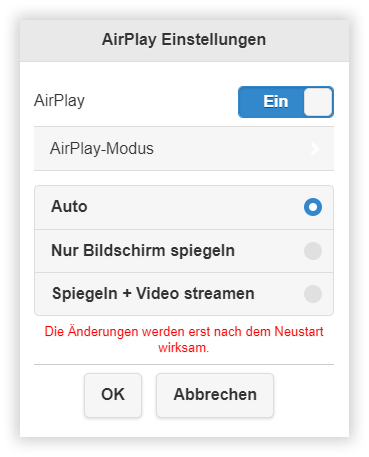
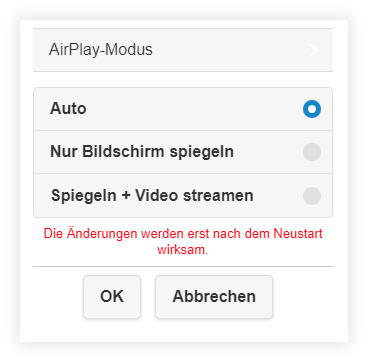
xx

diff --git a/docs/pro-stick-d10/reset.md b/docs/pro-stick-d10/reset.md
@@ -67,14 +67,16 @@ Wenn Ihnen die Zugangsdaten für die [Erweiterte Einstellungen](adv.settings.md)
 
 Nach dem Zurücksetzen werden Sie bei der ersten Anmeldung auf der Funktion [Erweiterte Einstellungen](adv.settings.md) aufgefordert, das Admin-Kennwort zu ändern. Standardmäßig lautet es `000000`. Wir empfehlen, dass Sie anschließend die folgenden Einstellungen überprüfen:
 
-Firmware-Version: [1.12170.19](whatsnew.md#ezcast-pro-stick-ii-firmware-11217016)
+Firmware-Version: [1.13781.15](whatsnew.md#ezcast-pro-stick-ii-firmware-11378115)
 
 **Gerätemanagement**
 
 * [Sprache](adv.settings.md#Sprache): `DEUTSCH`
 * [AirView](adv.settings.md#AirView): `EIN`
+* [AirPlay OnScreen-Code](adv.settings.md#AirPlayMode): `EIN`
 * [Castcode](adv.settings.md#Castcode): `Zufällig`
-* [Miracast](adv.settings.md#Miracast): `Geteilter Bildschirm unterstützt`
+* [Miracast Pin-Code](adv.settings.md#Miracast): `EIN`
+* [Miracast Geteilter Bildschirm](adv.settings.md#Miracast): `Geteilter Bildschirm unterstützt`
 * [Zeitgesteuerter Neustart](adv.settings.md#timedrestart): `2 Stunden`
 
 **Netzwerkmanagement**
@@ -90,5 +92,3 @@ Firmware-Version: [1.12170.19](whatsnew.md#ezcast-pro-stick-ii-firmware-11217016
     * `Neustart = Ein`
 * [Mein Bildschirm](adv.settings.md#Mein-Bildschirm): unsere [Startseite](https://download.stueber.de/doc/de/ezcastpro/EZCastProV2_StartseiteDE.png) in der deutschen Sprache
 * [Zentrales Managementsystem](adv.settings.md#AirView): `EIN`
-
-

diff --git a/docs/pro-box-b10/reset.md b/docs/pro-box-b10/reset.md
@@ -66,14 +66,16 @@ Wenn Ihnen die Zugangsdaten für die [Erweiterte Einstellungen](adv.settings.md)
 
 Nach dem Zurücksetzen werden Sie bei der ersten Anmeldung auf der Funktion [Erweiterte Einstellungen](adv.settings.md) aufgefordert, das Admin-Kennwort zu ändern. Standardmäßig lautet es `000000`. Wir empfehlen, dass Sie anschließend die folgenden Einstellungen überprüfen:
 
-Firmware-Version: [1.12170.19](whatsnew.md#ezcast-pro-box-ii-firmware-11217016)
+Firmware-Version: [1.13781.15](whatsnew.md#ezcast-pro-box-ii-firmware-11378115)
 
 **Gerätemanagement**
 
 * [Sprache](adv.settings.md#Sprache): `DEUTSCH`
 * [AirView](adv.settings.md#AirView): `EIN`
+* [AirPlay OnScreen-Code](adv.settings.md#AirPlayMode): `EIN`
 * [Castcode](adv.settings.md#Castcode): `Zufällig`
-* [Miracast](adv.settings.md#Miracast): `Geteilter Bildschirm unterstützt`
+* [Miracast Pin-Code](adv.settings.md#Miracast): `EIN`
+* [Miracast Geteilter Bildschirm](adv.settings.md#Miracast): `Geteilter Bildschirm unterstützt`
 * [Zeitgesteuerter Neustart](adv.settings.md#timedrestart): `2 Stunden`
 
 **Netzwerkmanagement**
@@ -89,5 +91,3 @@ Firmware-Version: [1.12170.19](whatsnew.md#ezcast-pro-box-ii-firmware-11217016)
     * `Neustart = Ein`
 * [Mein Bildschirm](adv.settings.md#Mein-Bildschirm): unsere [Startseite](https://download.stueber.de/doc/de/ezcastpro/EZCastProV2_StartseiteDE.png) in der deutschen Sprache
 * [Zentrales Managementsystem](adv.settings.md#AirView): `EIN`
-
-

diff --git a/docs/pro-box-b10/adv.settings.md b/docs/pro-box-b10/adv.settings.md
@@ -111,7 +111,9 @@ Mit Vollbild-Modus wird die Eingabe des Endgeräts automatisch angepasst, um das
 
 #### AirPlay-Modus {#AirPlayMode}
 
-Mit einem iOS/macOS Gerät können Sie Ihren Bildschirminhalt auch direkt per Apple AirPlay übertragen. Das bedeutet, Sie benötigen in diesem Fall keine EZCast Pro Software. Diese Funktion ist 'out-the-box' freigegeben. Eine umfassende Anleitung zur Verwendung von AirPlay finden Sie [hier](airplay.md).
+Standardmäßig ist das Protokoll AirPlay auf EZCast Pro II-Geräten aktiviert. Sollten Sie die Funktion jedoch deaktivieren bzw. erneut aktivieren wollen, wählen Sie die gewünschte Option aus. Sollten Sie die Funktion jedoch deaktivieren bzw. erneut aktivieren wollen, wählen Sie die gewünschte Option aus. Eine umfassende Anleitung zur Verwendung von AirPlay finden Sie [hier](airplay.md):
+
+![](/assets/img/ezcastpro.II.AirPlay.Settings.png)
 
 Wählen Sie den Modus für Videowiedergabe aus:
 

diff --git a/docs/pro-stick-d10/adv.settings.md b/docs/pro-stick-d10/adv.settings.md
@@ -112,7 +112,9 @@ Mit Vollbild-Modus wird die Eingabe des Endgeräts automatisch angepasst, um das
 
 #### AirPlay-Modus {#AirPlayMode}
 
-Mit einem iOS/macOS Gerät können Sie Ihren Bildschirminhalt auch direkt per Apple AirPlay übertragen. Das bedeutet, Sie benötigen in diesem Fall keine EZCast Pro Software. Diese Funktion ist 'out-the-box' freigegeben. Eine umfassende Anleitung zur Verwendung von AirPlay finden Sie [hier](airplay.md).
+Standardmäßig ist das Protokoll AirPlay auf EZCast Pro II-Geräten aktiviert. Sollten Sie die Funktion jedoch deaktivieren bzw. erneut aktivieren wollen, wählen Sie die gewünschte Option aus. Sollten Sie die Funktion jedoch deaktivieren bzw. erneut aktivieren wollen, wählen Sie die gewünschte Option aus. Eine umfassende Anleitung zur Verwendung von AirPlay finden Sie [hier](airplay.md):
+
+![](/assets/img/ezcastpro.II.AirPlay.Settings.png)
 
 Wählen Sie den Modus für Videowiedergabe aus:
 

diff --git a/docs/pro-box-b10/whatsnew.md b/docs/pro-box-b10/whatsnew.md
@@ -11,7 +11,7 @@ Dieses Kapitel gibt Ihnen einen Überblick über aktuelle Änderungen der EZCast
 
 **Neue Funktionen:**
 
-- neues Modul AirPlay mit Onscreen-Code
+- neues Modul AirPlay mit [Onscreen-Code](securitycodes.md) und verbesserter Unterstützung für [MDM](https://support.apple.com/de-ch/guide/mdm/mdmbf9e668/web)
 
 **Fixes:**
 

diff --git a/docs/pro-stick-d10/whatsnew.md b/docs/pro-stick-d10/whatsnew.md
@@ -11,7 +11,7 @@ Dieses Kapitel gibt Ihnen einen Überblick über aktuelle Änderungen des EZCast
 
 **Neue Funktionen:**
 
-- neues Modul AirPlay mit Onscreen-Code
+- neues Modul AirPlay mit [Onscreen-Code](securitycodes.md) und verbesserter Unterstützung für [MDM](https://support.apple.com/de-ch/guide/mdm/mdmbf9e668/web)
 
 **Fixes:**
 
